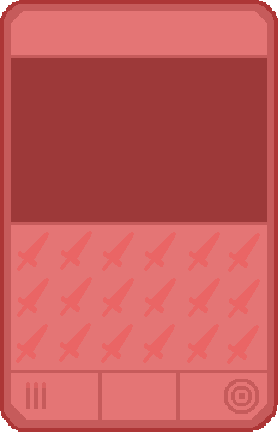
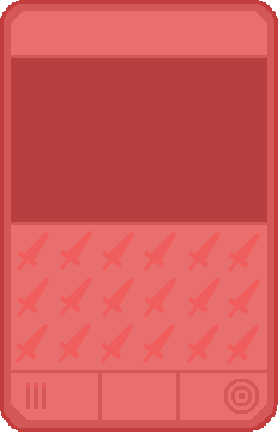
Damage card recolor
I feel like I'm never satisfied with this one

diff --git a/Scripts/Card.cs b/Scripts/Card.cs
@@ -338,7 +338,7 @@ public class Card : Sprite
 		switch(ChosenAbility)
 		{
 			case "Damage":
-				CoverNode.Modulate = new Color(0.7764f,0.3608f,0.3608f,1);
+				CoverNode.Modulate = new Color(0.8353f,0.3451f,0.3451f,1);
 			break;
 			case "Move":
 				CoverNode.Modulate = new Color(0.4627f,0.6706f,0.8510f,1);
